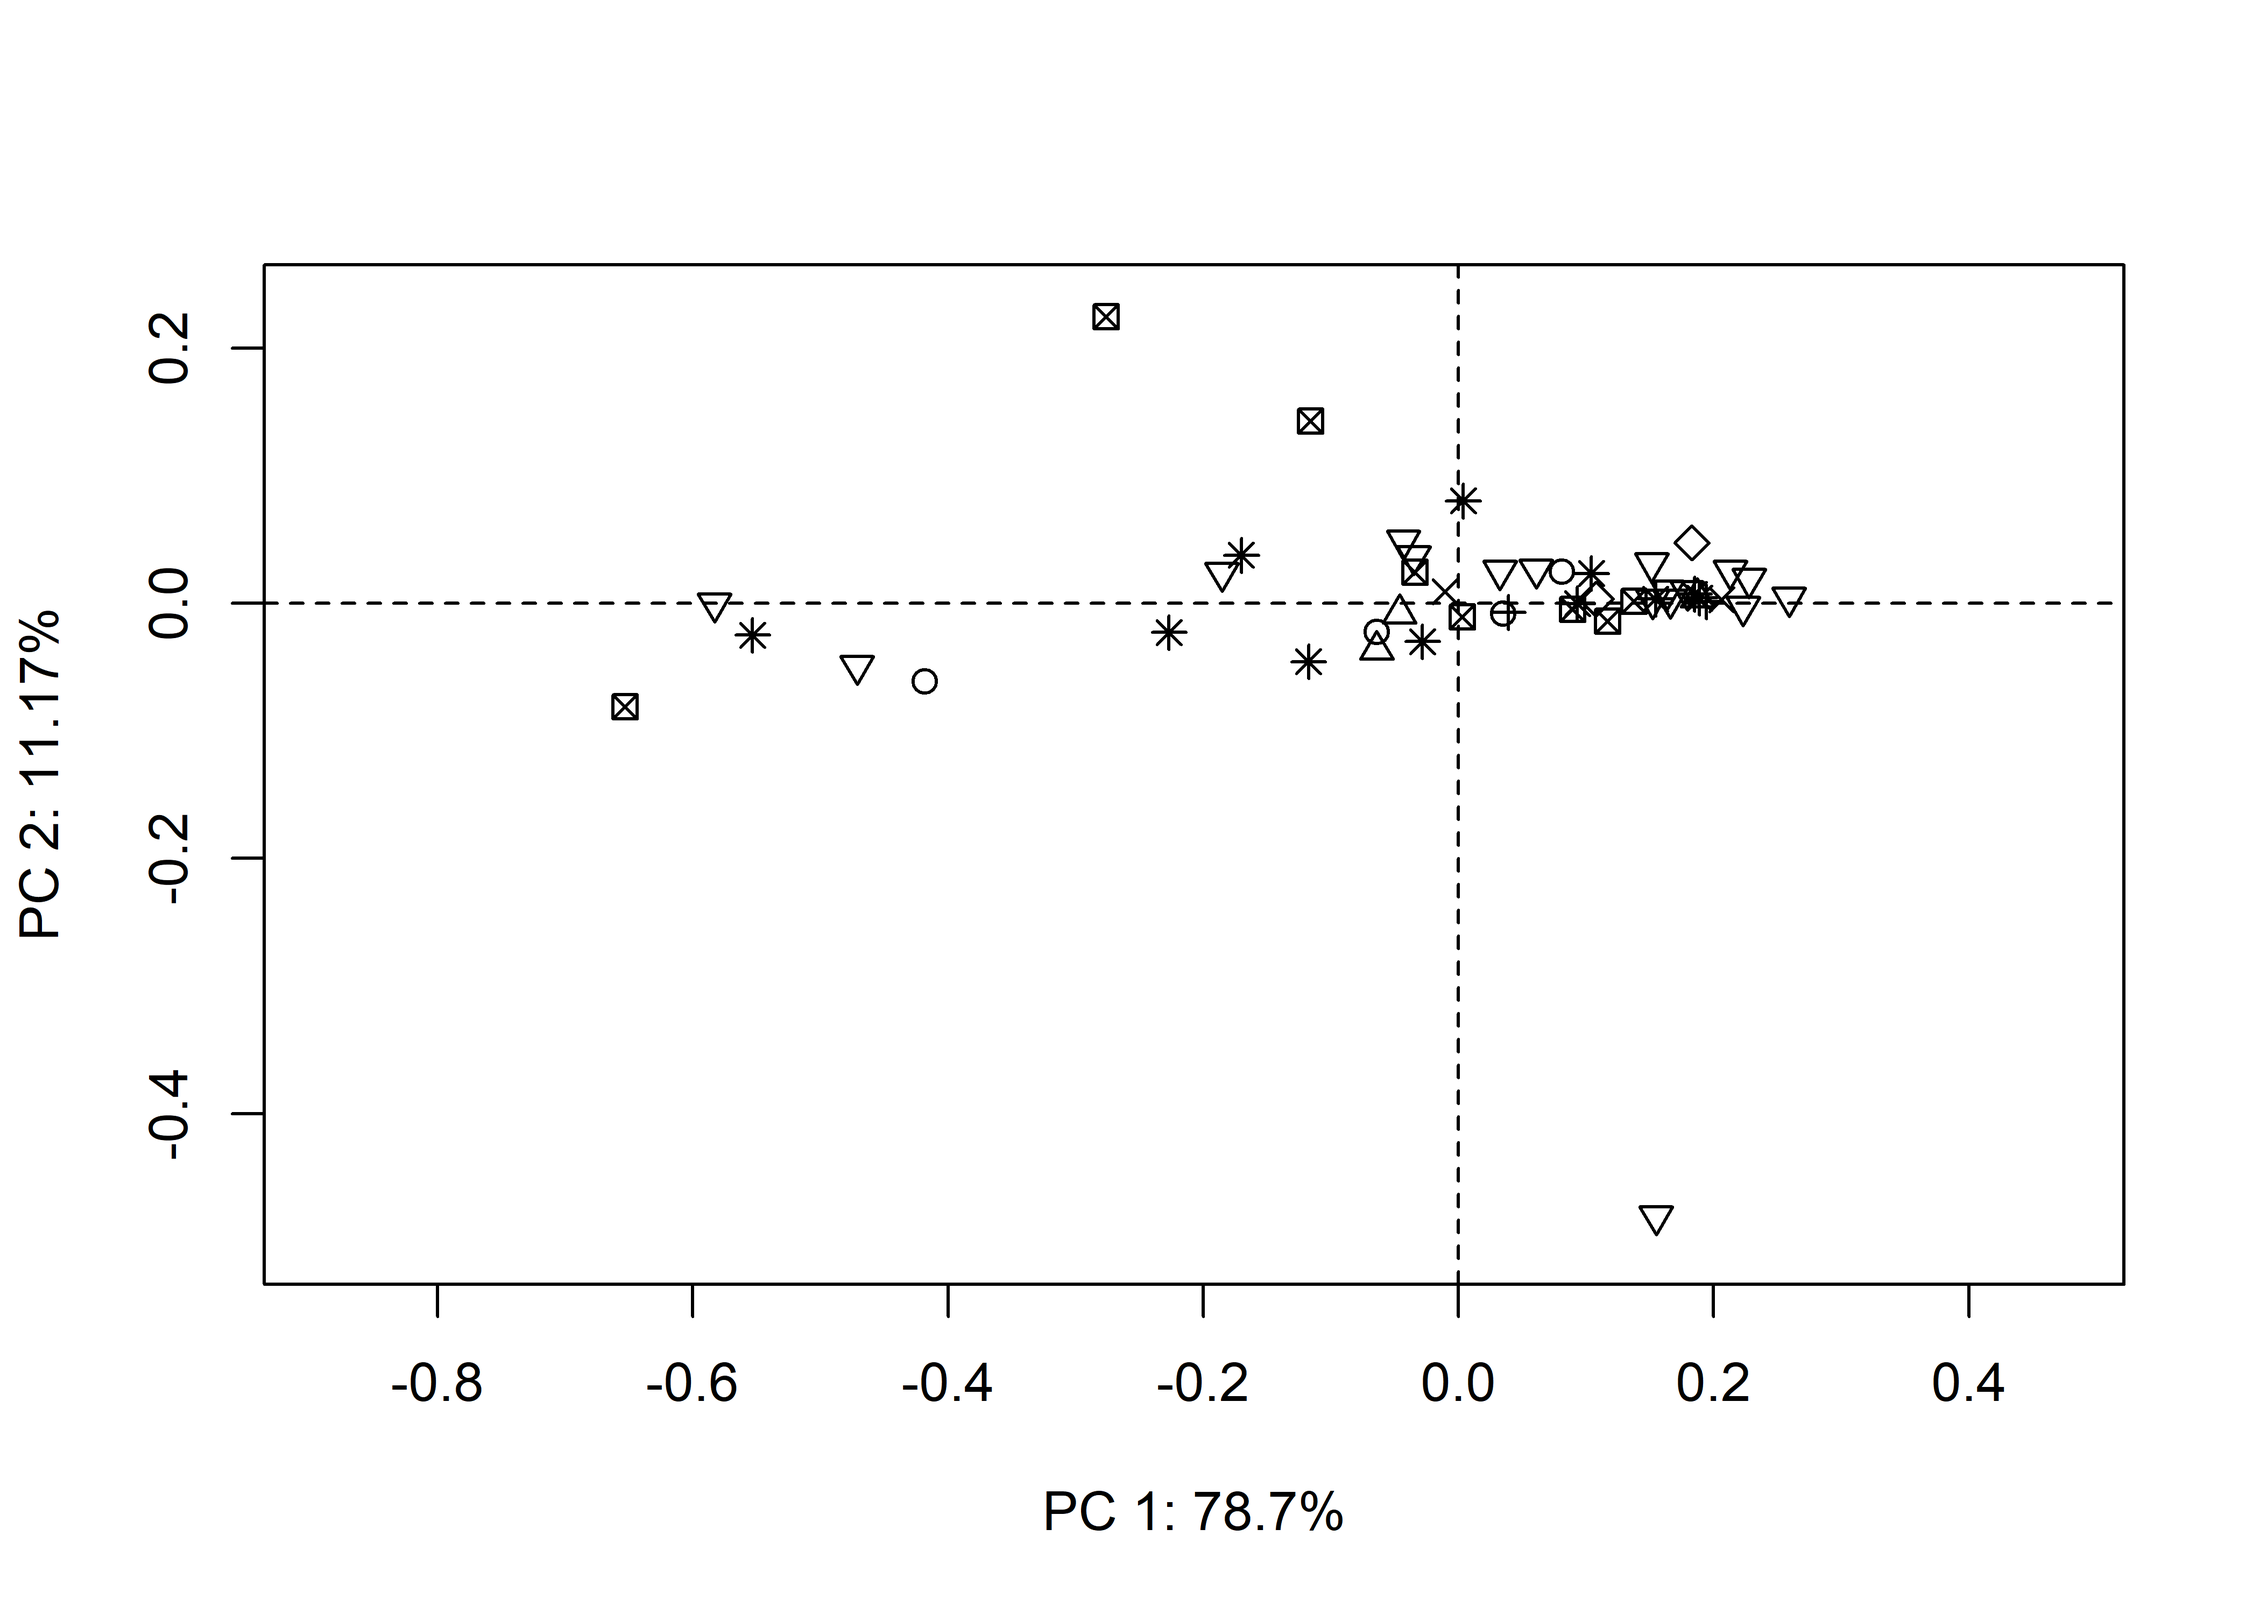
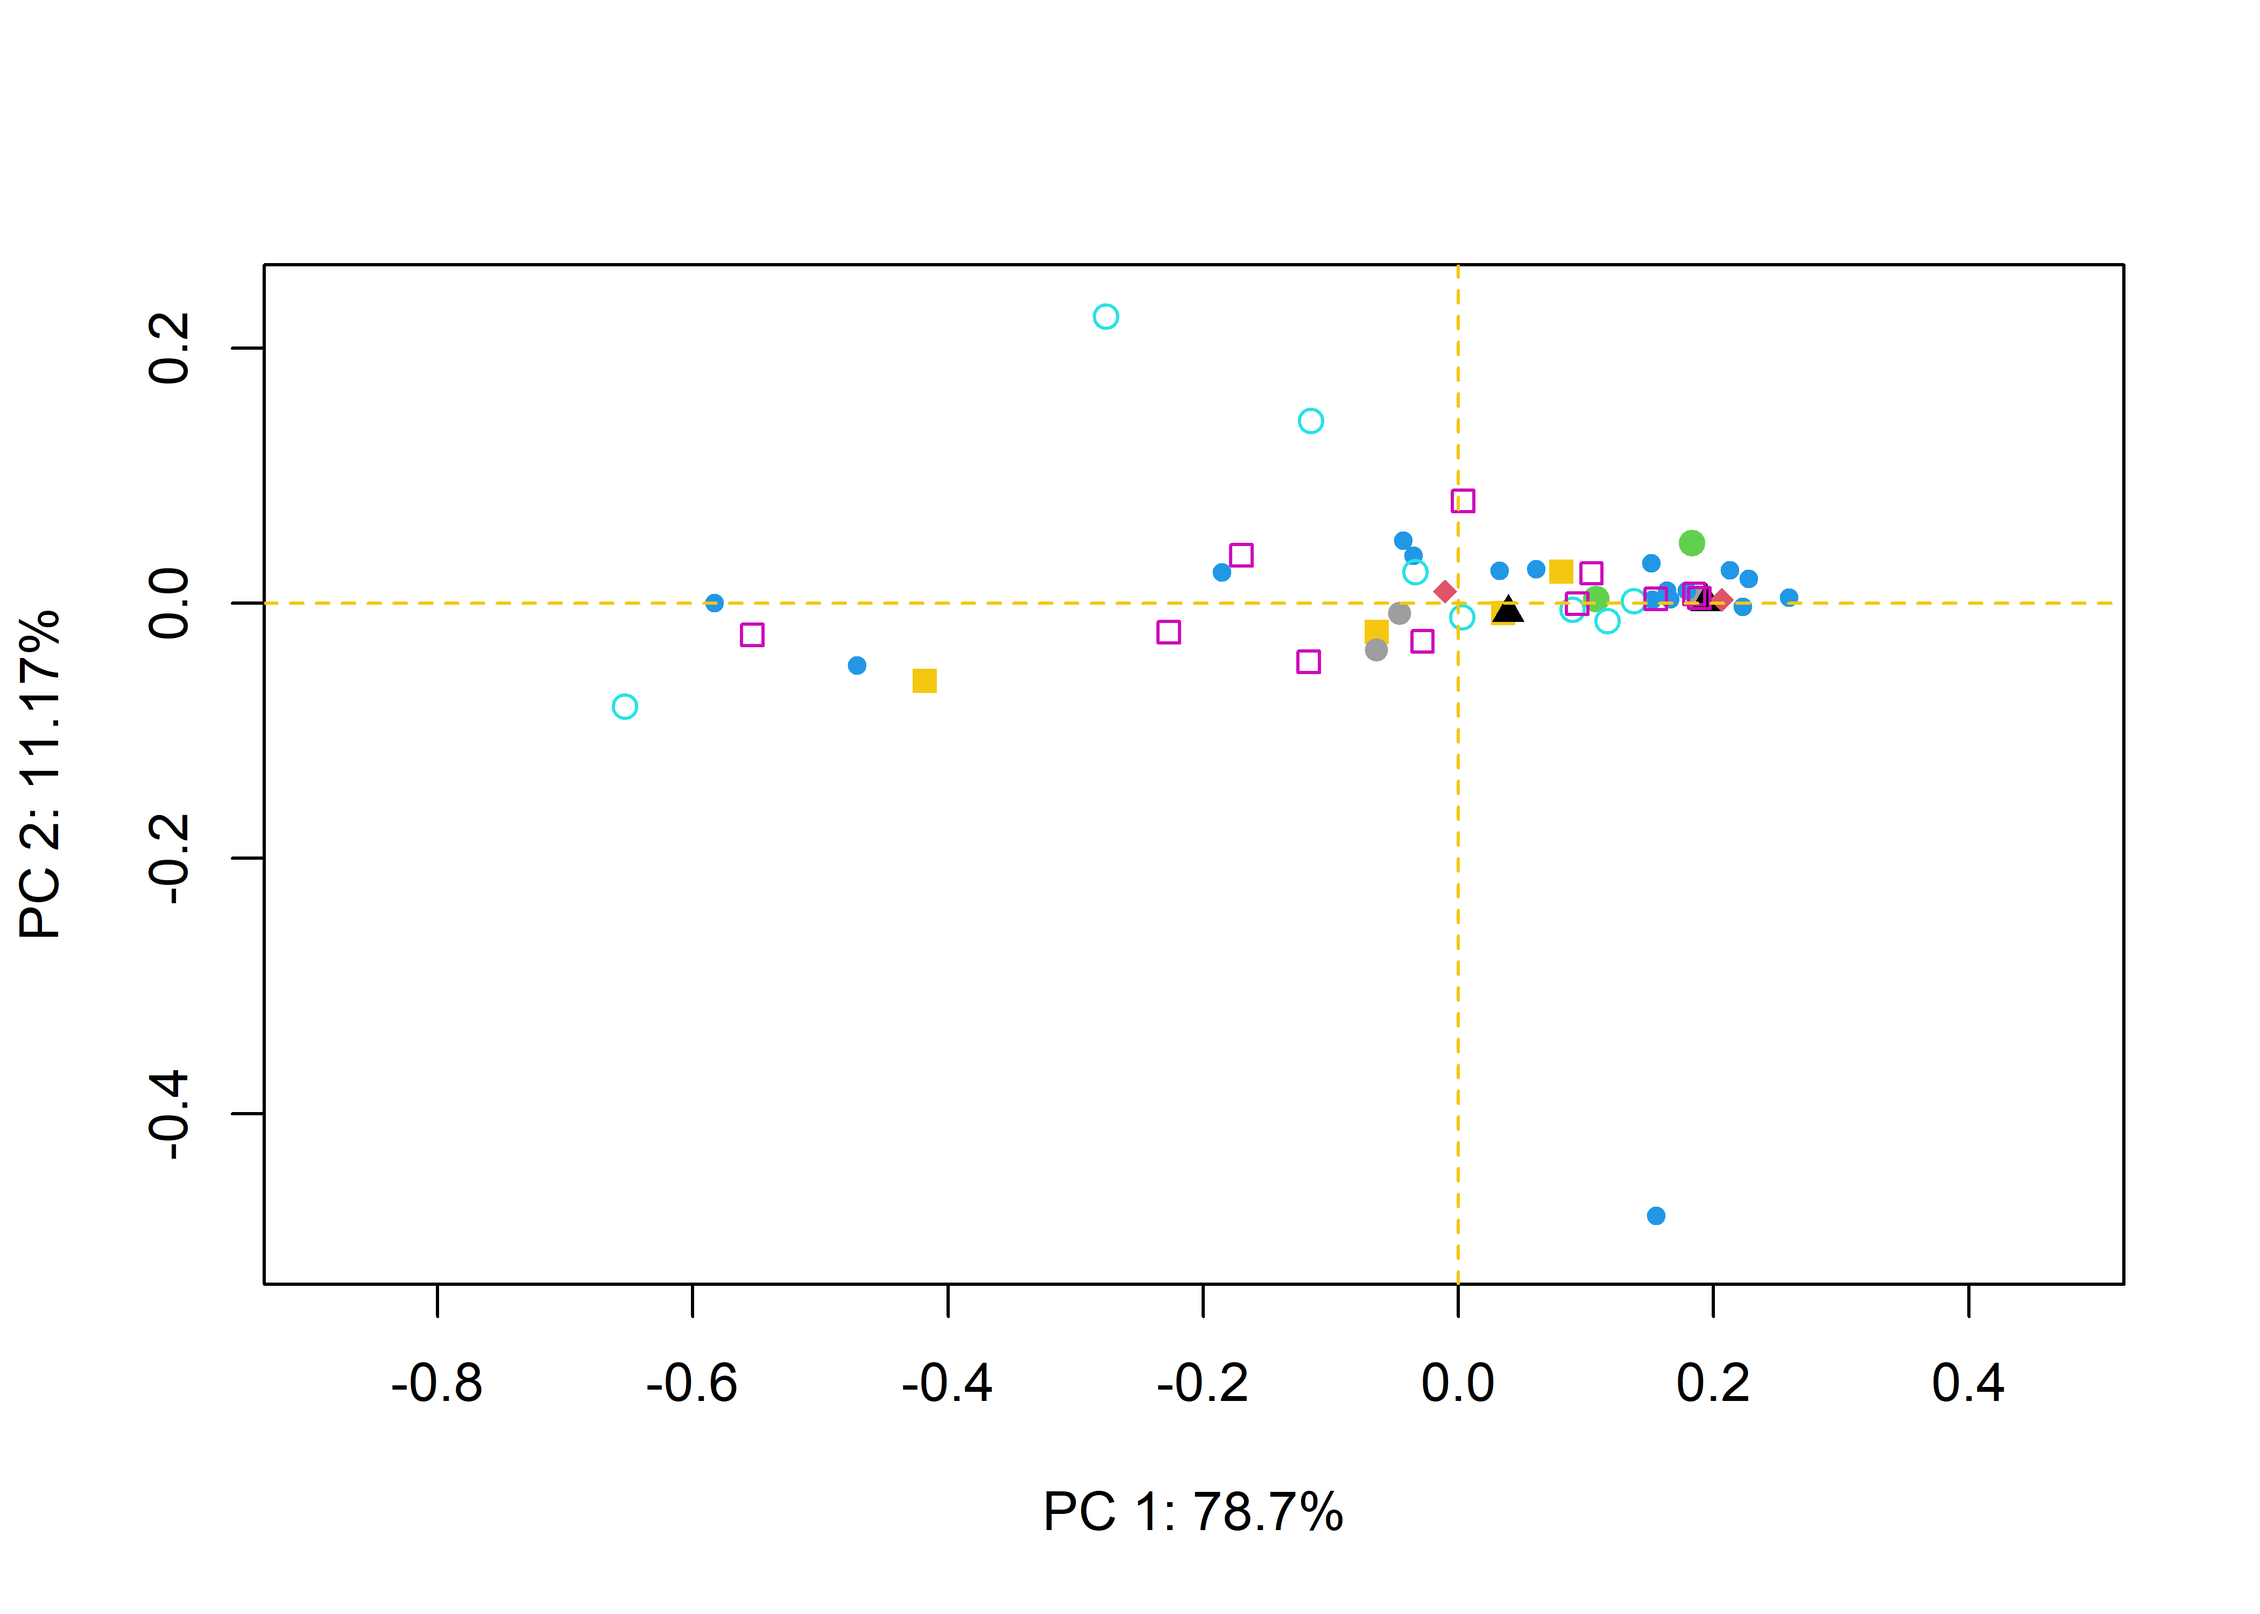
<edit incision>

diff --git a/docs/archaeological-sample-analysis.html b/docs/archaeological-sample-analysis.html
@@ -457,11 +457,13 @@ This volume is in <b><a href="open.html#open">Open Review</a></b>. I want your f
 ## Cumulative Proportion  9.999992e-01 9.999996e-01 9.999999e-01 1.000000e+00</code></pre>
 <div class="sourceCode" id="cb168"><pre class="sourceCode r"><code class="sourceCode r"><a class="sourceLine" id="cb168-1" title="1"><span class="co"># set plot parameters</span></a>
 <a class="sourceLine" id="cb168-2" title="2">site &lt;-<span class="st"> </span>qdata<span class="op">$</span>site</a>
-<a class="sourceLine" id="cb168-3" title="3">pch.gps.site &lt;-<span class="st"> </span><span class="kw">c</span>(<span class="dv">1</span><span class="op">:</span><span class="dv">14</span>)[<span class="kw">as.factor</span>(site)]</a>
-<a class="sourceLine" id="cb168-4" title="4"></a>
-<a class="sourceLine" id="cb168-5" title="5"><span class="co"># plotPCAbySite</span></a>
-<a class="sourceLine" id="cb168-6" title="6">pca.plot1 &lt;-<span class="st"> </span><span class="kw">plot</span>(pca, <span class="dt">asp =</span> <span class="dv">1</span>,</a>
-<a class="sourceLine" id="cb168-7" title="7">                <span class="dt">pch =</span> pch.gps.site)</a></code></pre></div>
+<a class="sourceLine" id="cb168-3" title="3">pch.gps.site &lt;-<span class="st"> </span><span class="kw">c</span>(<span class="dv">15</span><span class="op">:</span><span class="dv">22</span>)[<span class="kw">as.factor</span>(site)]</a>
+<a class="sourceLine" id="cb168-4" title="4">col.gps.site &lt;-<span class="st"> </span><span class="kw">wes_palette</span>(<span class="st">&quot;Cavalcanti1&quot;</span>)[<span class="kw">as.factor</span>(site)]</a>
+<a class="sourceLine" id="cb168-5" title="5"></a>
+<a class="sourceLine" id="cb168-6" title="6"><span class="co"># plotPCAbySite</span></a>
+<a class="sourceLine" id="cb168-7" title="7">pca.plot1 &lt;-<span class="st"> </span><span class="kw">plot</span>(pca, <span class="dt">asp =</span> <span class="dv">1</span>,</a>
+<a class="sourceLine" id="cb168-8" title="8">                <span class="dt">pch =</span> pch.gps.site,</a>
+<a class="sourceLine" id="cb168-9" title="9">                <span class="dt">col =</span> pch.gps.site)</a></code></pre></div>
 <p><img src="incision_files/figure-html/pca-1.png" width="100%" /></p>
 </div>
 <div id="define-models-1" class="section level2">
